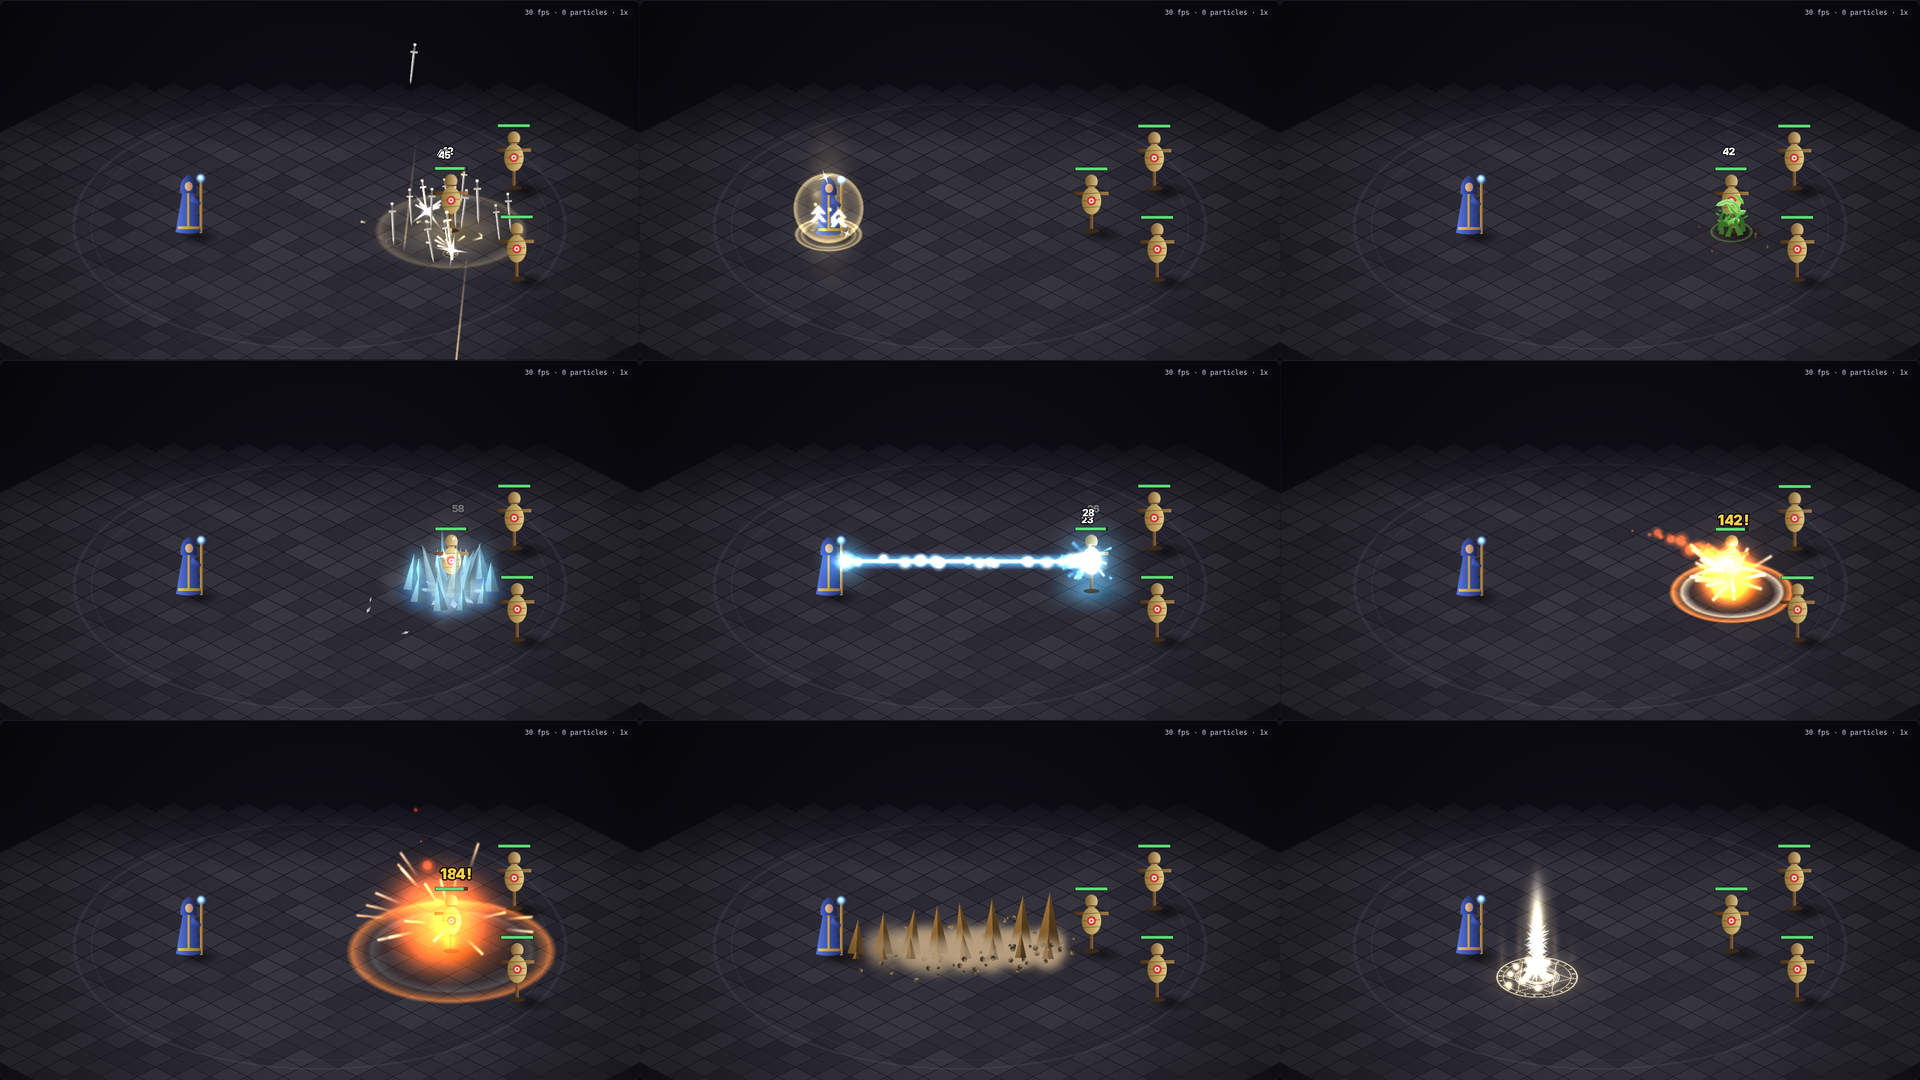
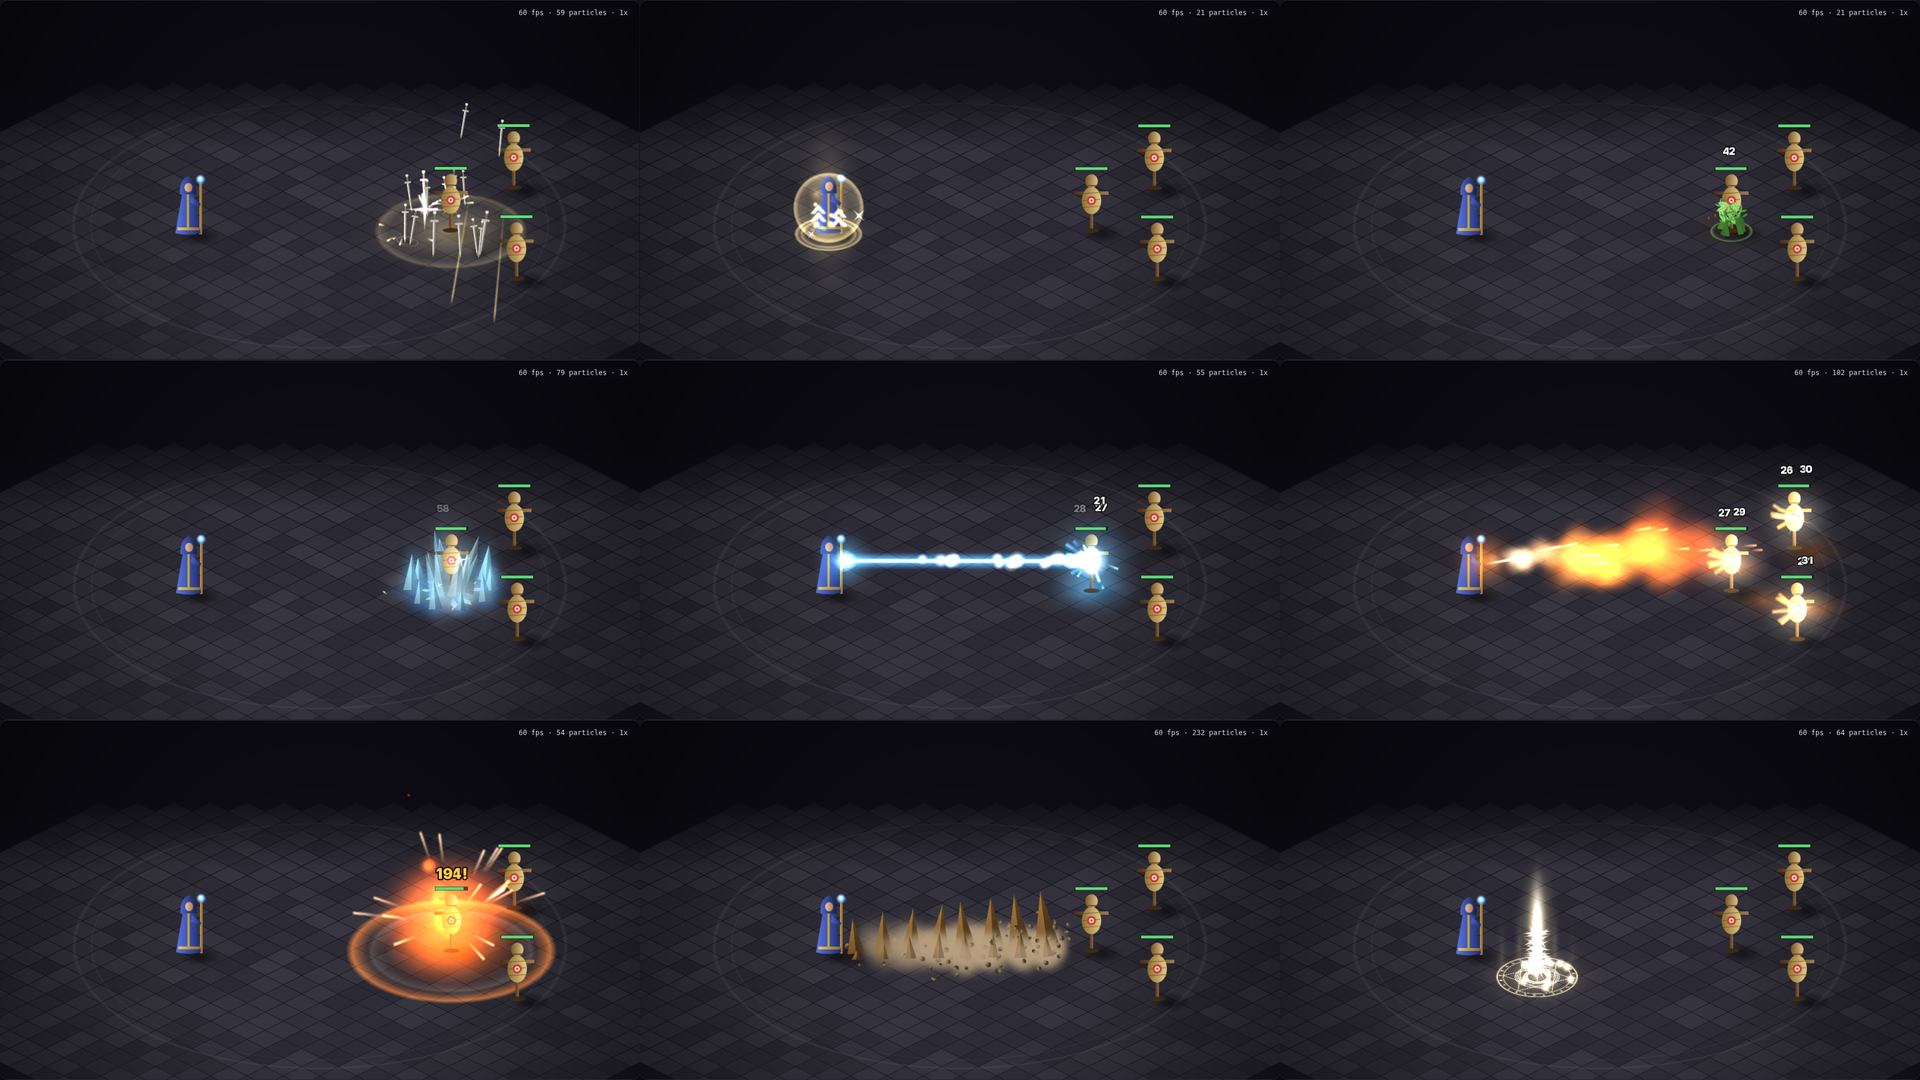
hitFlash: overlay as a sibling (no Sprite children on v8); refresh preview

diff --git a/kit/recipes.ts b/kit/recipes.ts
@@ -49,17 +49,30 @@ export function hitSpark(w: VfxWorld, tex: VfxTextures, o: Vec3 & { angle?: numb
 }
 
 /** Make a character sprite flash white (works for Sprite/AnimatedSprite, v7 and v8). */
+/** Live hitFlash overlays; destroy them yourself if you call `clear()` mid-flash. */
+export const activeHitFlashes = new Set<Sprite>();
+
 export function hitFlash(w: VfxWorld, target: Sprite, ms = 120, color = 0xffffff) {
+  // A sibling that copies the target's transform (v8 Sprites cannot hold children).
+  const parent = target.parent;
+  if (!parent) return;
   const f = new Sprite(target.texture);
   f.anchor.copyFrom(target.anchor);
   f.blendMode = blend('add');
   f.tint = color;
-  target.addChild(f);
+  parent.addChildAt(f, parent.getChildIndex(target) + 1);
+  activeHitFlashes.add(f);
   let age = 0;
   w.addUpdater((dt) => {
     age += dt;
+    f.position.copyFrom(target.position);
+    f.scale.copyFrom(target.scale);
+    f.rotation = target.rotation;
+    f.zIndex = target.zIndex;
+    f.visible = target.visible;
     f.alpha = 1 - age / ms;
-    if (age >= ms) {
+    if (age >= ms || target.destroyed) {
+      activeHitFlashes.delete(f);
       f.destroy();
       return false;
     }

diff --git a/demo/main.ts b/demo/main.ts
@@ -3,7 +3,7 @@
 import { Application, Container, Sprite, Texture } from 'pixi.js';
 import {
   VfxWorld, createVfxTextures, isPixiV8, textureFromCanvas, rigFromBlender, anchorAtFeet,
-  hitFlash, hitSpark, damageNumber, WUXING, Palette, Vec3, outCubic, lerp, rand,
+  hitFlash, hitSpark, damageNumber, activeHitFlashes, WUXING, Palette, Vec3, outCubic, lerp, rand,
 } from '../kit';
 import { SKILLS, SkillDef, Unit, SkillContext } from '../examples/skills';
 
@@ -268,7 +268,9 @@ function whiteTexture() {
   const resetScene = () => {
     w.clear();
     while (summons.length) dropSummon(summons[0]);
-    for (const u of units) { u.feet.x = u.home.x; u.feet.y = u.home.y; u.feet.z = 0; u.sprite.visible = true; u.hp = 1; u.sprite.removeChildren(); }
+    for (const f of activeHitFlashes) f.destroy();
+    activeHitFlashes.clear();
+    for (const u of units) { u.feet.x = u.home.x; u.feet.y = u.home.y; u.feet.z = 0; u.sprite.visible = true; u.hp = 1; }
     hero.facing = 1;
   };
 
